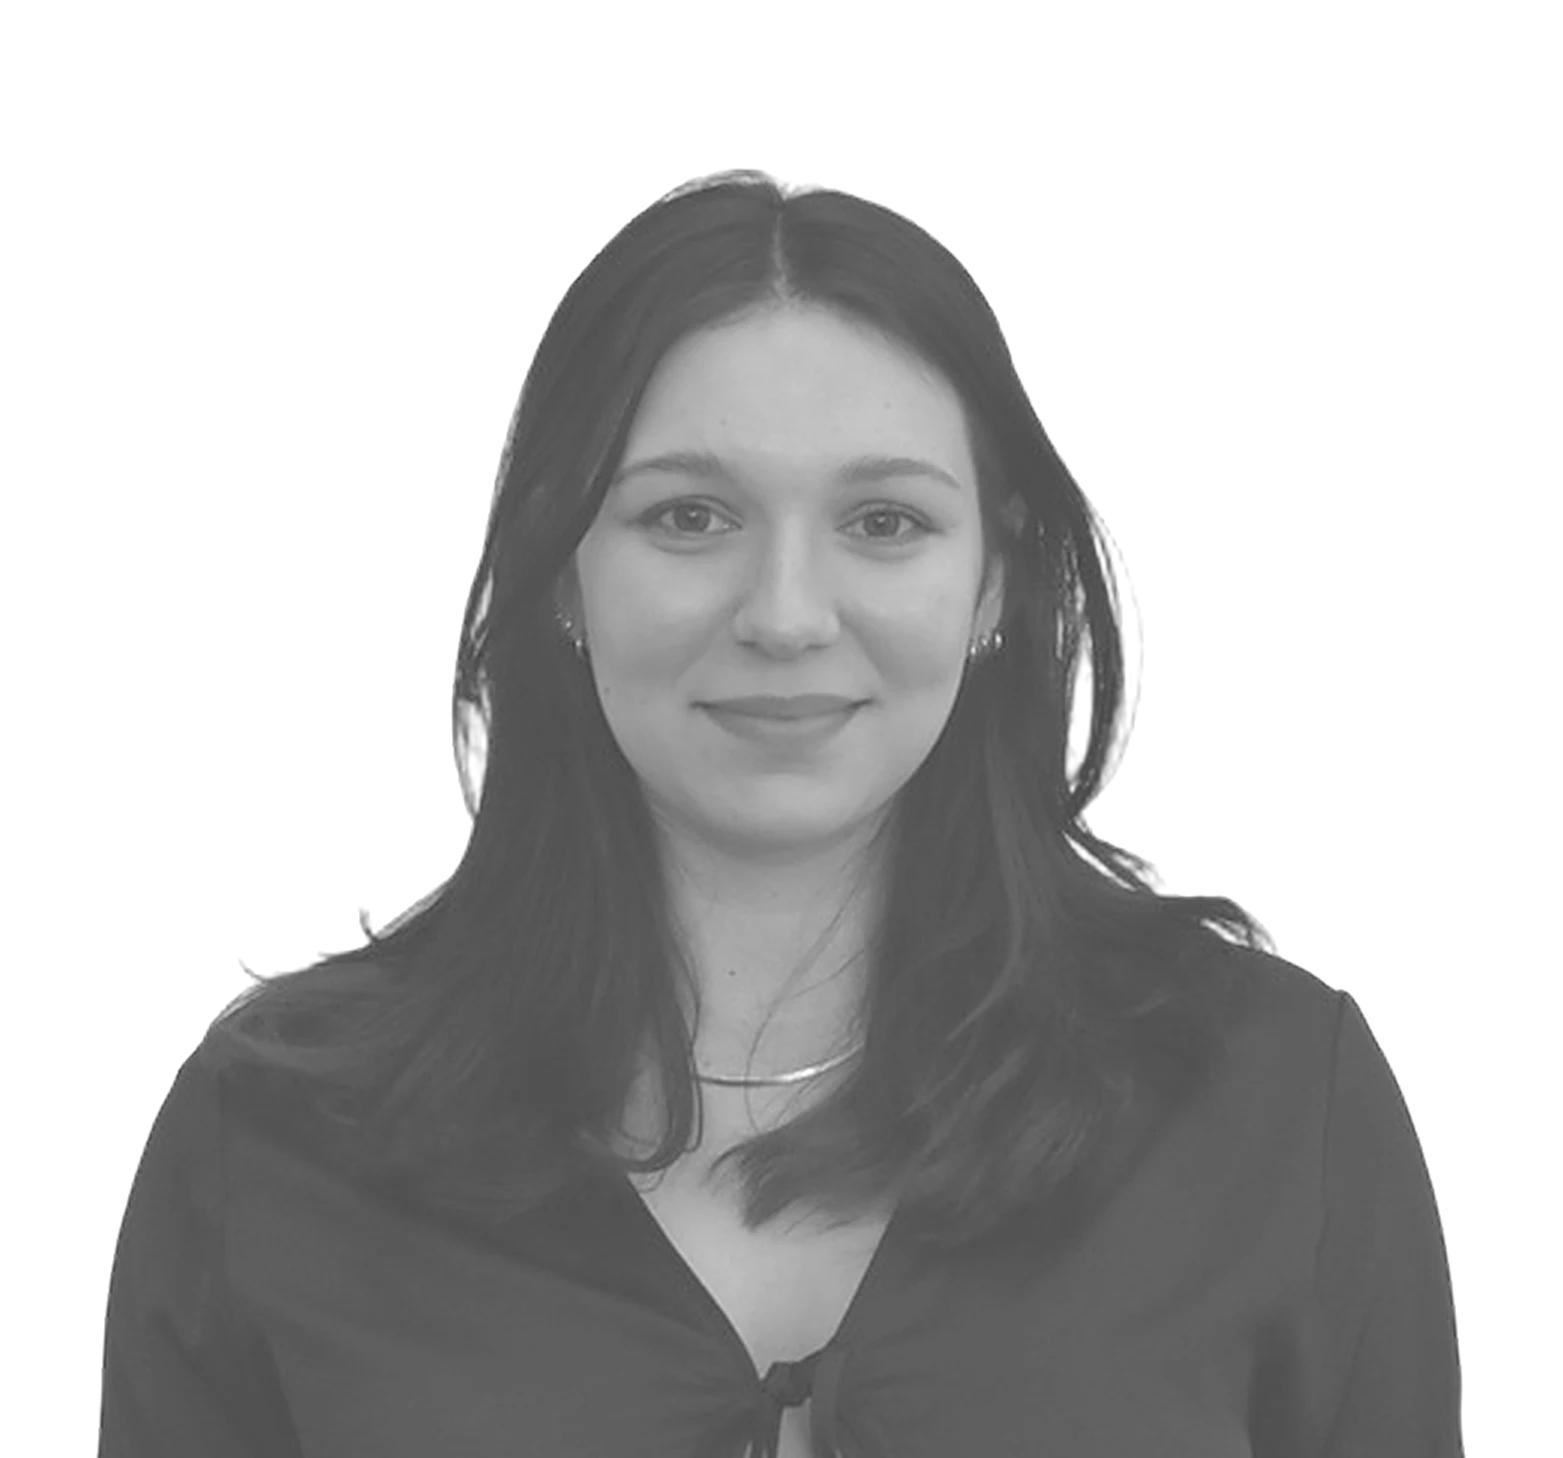
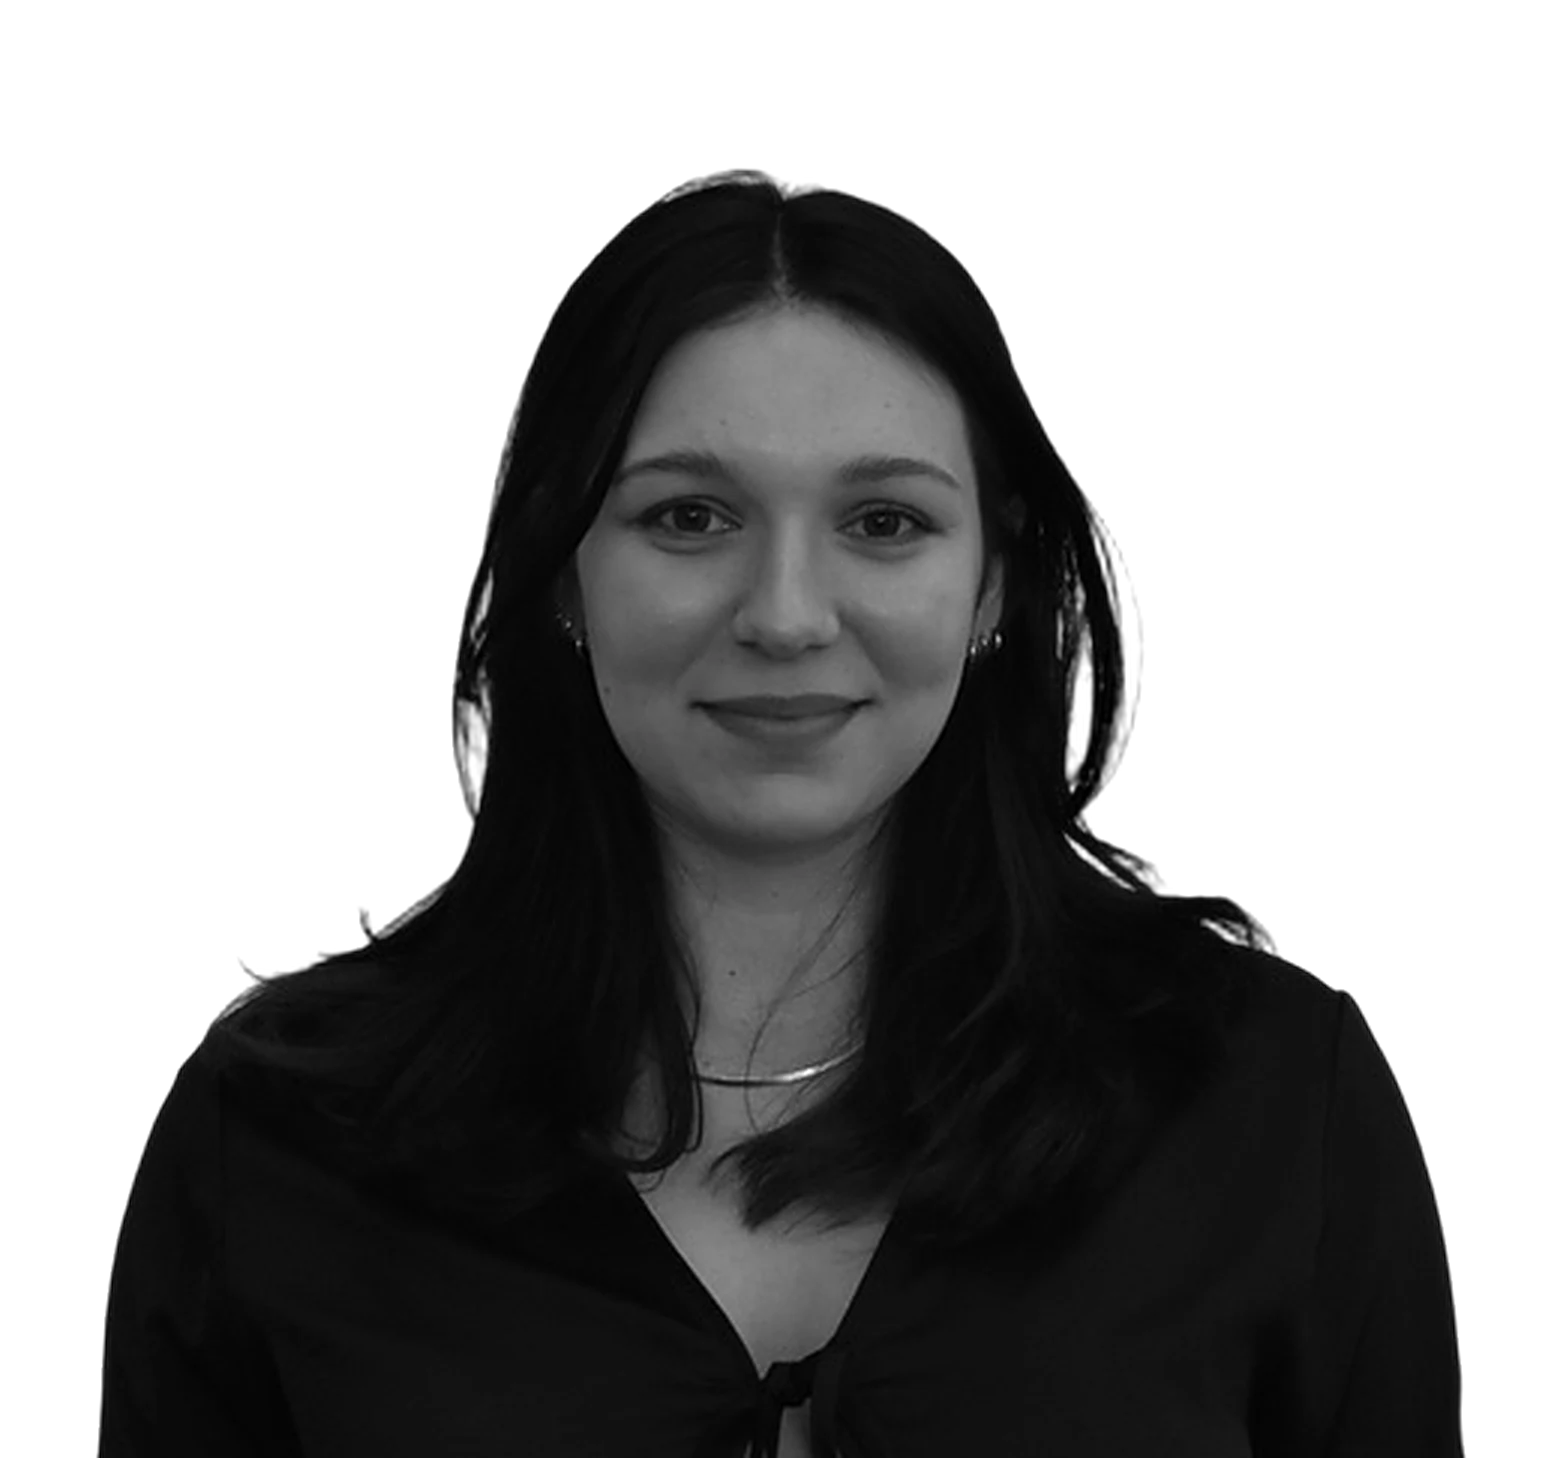
Photo back to its original tones

diff --git a/index.html b/index.html
@@ -215,7 +215,7 @@
         </div>
           <div class="ab-pic" role="img" aria-label="Photo of Laura Warmuz">
             <svg class="ab-base" viewBox="0 0 486 486" preserveAspectRatio="xMidYMid slice" aria-hidden="true">
-              <image href="assets/img/laura-photo.webp" x="-17.5" y="0" width="521" height="486"/>
+              <image href="assets/img/laura-photo.webp?v=1790957751" x="-17.5" y="0" width="521" height="486"/>
             </svg>
             <!-- liquid glass: a frosted pane over the photo, light catching on its rim -->
             <div class="ab-lg" aria-hidden="true"></div>
@@ -226,7 +226,7 @@
                         stroke-width="50" stroke-linecap="round" stroke-linejoin="round" d="M20,310C30.0,303.3 60.0,290.0 80,270C100.0,250.0 123.3,218.3 140,190C156.7,161.7 170.7,123.0 180,100C189.3,77.0 195.3,63.7 196,52C196.7,40.3 190.0,31.7 184,30C178.0,28.3 167.0,28.7 160,42C153.0,55.3 148.3,78.7 142,110C135.7,141.3 128.0,193.3 122,230C116.0,266.7 106.7,321.7 106,330C105.3,338.3 110.7,297.5 118,280C125.3,262.5 137.7,237.0 150,225C162.3,213.0 180.3,207.5 192,208C203.7,208.5 214.7,216.0 220,228C225.3,240.0 223.7,265.0 224,280C224.3,295.0 218.7,308.7 222,318C225.3,327.3 234.3,335.3 244,336C253.7,336.7 267.0,329.3 280,322C293.0,314.7 309.3,303.7 322,292C334.7,280.3 349.7,264.7 356,252C362.3,239.3 363.0,224.7 360,216C357.0,207.3 346.7,200.0 338,200C329.3,200.0 315.3,205.7 308,216C300.7,226.3 294.3,246.0 294,262C293.7,278.0 298.0,299.7 306,312C314.0,324.3 328.3,333.7 342,336C355.7,338.3 374.7,333.3 388,326C401.3,318.7 410.3,312.2 422,292C433.7,271.8 447.3,235.3 458,205C468.7,174.7 480.3,135.0 486,110C491.7,85.0 493.3,67.7 492,55C490.7,42.3 483.7,34.5 478,34C472.3,33.5 463.7,34.3 458,52C452.3,69.7 447.3,108.7 444,140C440.7,171.3 438.0,212.0 438,240C438.0,268.0 438.7,292.0 444,308C449.3,324.0 459.7,333.7 470,336C480.3,338.3 493.7,340.5 506,322C518.3,303.5 533.0,259.5 544,225C555.0,190.5 566.3,143.3 572,115C577.7,86.7 579.3,68.5 578,55C576.7,41.5 569.7,34.5 564,34C558.3,33.5 549.7,34.3 544,52C538.3,69.7 533.2,108.7 530,140C526.8,171.3 525.0,212.0 525,240C525.0,268.0 524.8,292.0 530,308C535.2,324.0 545.7,333.0 556,336C566.3,339.0 581.3,332.7 592,326C602.7,319.3 610.7,311.0 620,296C629.3,281.0 636.3,250.3 648,236C659.7,221.7 677.0,212.7 690,210C703.0,207.3 717.7,212.0 726,220C734.3,228.0 739.0,243.8 740,258C741.0,272.2 738.3,292.3 732,305C725.7,317.7 713.3,329.2 702,334C690.7,338.8 674.0,339.3 664,334C654.0,328.7 644.7,315.3 642,302C639.3,288.7 641.7,267.7 648,254C654.3,240.3 667.7,227.3 680,220C692.3,212.7 707.0,211.0 722,210C737.0,209.0 753.7,215.7 770,214C786.3,212.3 811.7,202.3 820,200"/>
                 </mask>
               </defs>
-              <image href="assets/img/laura-photo.webp" x="-17.5" y="0" width="521" height="486" mask="url(#helloMask)"/>
+              <image href="assets/img/laura-photo.webp?v=1790957751" x="-17.5" y="0" width="521" height="486" mask="url(#helloMask)"/>
             </svg>
           </div>
         <div class="ab-intro">
